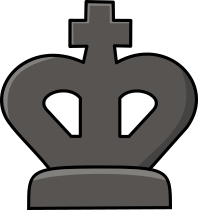
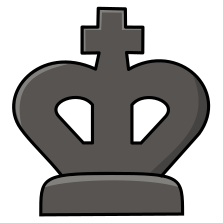
Graphic update
Improved the visual of the squares indicators
Pieces are now at the center of squares
Changed the color of the board
Fixed bug with pawn atatck moves

Changed region(s): [[0.0, 0.0, 1.0, 1.0], [0.5758, 0.4, 0.8182, 0.6571], [0.2121, 0.4, 0.4242, 0.6571]]

diff --git a/pieceslabel.cpp b/pieceslabel.cpp
@@ -36,12 +36,12 @@ PiecesLabel::PiecesLabel(Board *board,QWidget *parent) : QLabel(parent)
     //Setting all the white pieces sizes
     //Pieces are a little bit smaller than squares
 
-    m_whitePawn = m_whitePawn.scaled(m_labelHeight/9,m_labelHeight/9,Qt::KeepAspectRatio, Qt::SmoothTransformation);
-    m_whiteRook = m_whiteRook.scaled(m_labelHeight/9,m_labelHeight/9,Qt::KeepAspectRatio, Qt::SmoothTransformation);
-    m_whiteKnight = m_whiteKnight.scaled(m_labelHeight/9,m_labelHeight/9,Qt::KeepAspectRatio, Qt::SmoothTransformation);
-    m_whiteBishop = m_whiteBishop.scaled(m_labelHeight/9,m_labelHeight/9,Qt::KeepAspectRatio, Qt::SmoothTransformation);
-    m_whiteQueen = m_whiteQueen.scaled(m_labelHeight/9,m_labelHeight/9,Qt::KeepAspectRatio, Qt::SmoothTransformation);
-    m_whiteKing = m_whiteKing.scaled(m_labelHeight/9,m_labelHeight/9,Qt::KeepAspectRatio, Qt::SmoothTransformation);
+    m_whitePawn = m_whitePawn.scaled(m_labelHeight/8,m_labelHeight/8,Qt::KeepAspectRatio, Qt::SmoothTransformation);
+    m_whiteRook = m_whiteRook.scaled(m_labelHeight/8,m_labelHeight/8,Qt::KeepAspectRatio, Qt::SmoothTransformation);
+    m_whiteKnight = m_whiteKnight.scaled(m_labelHeight/8,m_labelHeight/8,Qt::KeepAspectRatio, Qt::SmoothTransformation);
+    m_whiteBishop = m_whiteBishop.scaled(m_labelHeight/8,m_labelHeight/8,Qt::KeepAspectRatio, Qt::SmoothTransformation);
+    m_whiteQueen = m_whiteQueen.scaled(m_labelHeight/8,m_labelHeight/8,Qt::KeepAspectRatio, Qt::SmoothTransformation);
+    m_whiteKing = m_whiteKing.scaled(m_labelHeight/8,m_labelHeight/8,Qt::KeepAspectRatio, Qt::SmoothTransformation);
 
 
     //Setting all the pixmaps for the black pieces
@@ -55,12 +55,12 @@ PiecesLabel::PiecesLabel(Board *board,QWidget *parent) : QLabel(parent)
 
     //Setting all the black pieces sizes
     //Pieces are a little bit smaller than squares
-    m_blackPawn = m_blackPawn.scaled(m_labelHeight/9,m_labelHeight/9,Qt::KeepAspectRatio, Qt::SmoothTransformation);
-    m_blackRook = m_blackRook.scaled(m_labelHeight/9,m_labelHeight/9,Qt::KeepAspectRatio, Qt::SmoothTransformation);
-    m_blackKnight = m_blackKnight.scaled(m_labelHeight/9,m_labelHeight/9,Qt::KeepAspectRatio, Qt::SmoothTransformation);
-    m_blackBishop = m_blackBishop.scaled(m_labelHeight/9,m_labelHeight/9,Qt::KeepAspectRatio, Qt::SmoothTransformation);
-    m_blackQueen = m_blackQueen.scaled(m_labelHeight/9,m_labelHeight/9,Qt::KeepAspectRatio, Qt::SmoothTransformation);
-    m_blackKing = m_blackKing.scaled(m_labelHeight/9,m_labelHeight/9,Qt::KeepAspectRatio, Qt::SmoothTransformation);
+    m_blackPawn = m_blackPawn.scaled(m_labelHeight/8,m_labelHeight/8,Qt::KeepAspectRatio, Qt::SmoothTransformation);
+    m_blackRook = m_blackRook.scaled(m_labelHeight/8,m_labelHeight/8,Qt::KeepAspectRatio, Qt::SmoothTransformation);
+    m_blackKnight = m_blackKnight.scaled(m_labelHeight/8,m_labelHeight/8,Qt::KeepAspectRatio, Qt::SmoothTransformation);
+    m_blackBishop = m_blackBishop.scaled(m_labelHeight/8,m_labelHeight/8,Qt::KeepAspectRatio, Qt::SmoothTransformation);
+    m_blackQueen = m_blackQueen.scaled(m_labelHeight/8,m_labelHeight/8,Qt::KeepAspectRatio, Qt::SmoothTransformation);
+    m_blackKing = m_blackKing.scaled(m_labelHeight/8,m_labelHeight/8,Qt::KeepAspectRatio, Qt::SmoothTransformation);
 
 
     //Setting the board pixmap
@@ -92,6 +92,24 @@ PiecesLabel::PiecesLabel(Board *board,QWidget *parent) : QLabel(parent)
 
 
 
+void endWindow(){
+
+    QWidget endWindow;
+
+    //Getting srceen informations
+     const int width = 50;
+     const int height = 50;
+
+     // Set the size attributes for things in the window
+    endWindow.setFixedSize(width,height);
+    endWindow.show();
+
+
+}
+
+
+
+
 //Set m_mousePoint cooridnates after each click on the board
 void PiecesLabel::mousePressEvent(QMouseEvent *event){
     int position = 0;
@@ -108,14 +126,27 @@ void PiecesLabel::mousePressEvent(QMouseEvent *event){
         //The move has been done
         if (m_boardPieces->movePiece(m_firstSelectedPiece,m_secondSelectedPiece)){
 
+            //Stop the game if there is a draw/checkmate
+            if(m_boardPieces->isCheckMate() || (m_boardPieces->isDraw())){
+                endWindow();
+                std::cout<<"checkmate"<<std::endl;
+
+            }
         }
+
         drawGamePixmap(m_boardPieces->getBoard());
+
     }
 
     //First click on a piece (selecting a piece)
-    if(m_boardPieces->getPiece(position).getPieceType() != NONE){
+    if((m_boardPieces->getPiece(position).getPieceType() != NONE) && (m_selected == false)){
         m_firstSelectedPiece = m_boardPieces->getPiece(position);
         m_selected = true;
+        drawGamePixmap(m_boardPieces->getBoard());
+    }
+
+    //The player didn't clicked on a piece on the first click
+    else if((m_boardPieces->getPiece(position).getPieceType() == NONE) && (m_selected == false)){
         drawGamePixmap(m_boardPieces->getBoard());
     }
 
@@ -146,6 +177,9 @@ int PiecesLabel::clickToPosition(QPoint point){
 
 
 
+
+
+
 QRect PiecesLabel::positionToRectangle(int position){
     int xPos,yPos,x2Pos,y2Pos;
     QPoint leftTopCorner,rightBottomCorner;
@@ -173,12 +207,14 @@ QRect PiecesLabel::positionToRectangle(int position){
 
 
 
+
+
 //Draw a Pixmap of the current game and display it
 void PiecesLabel::drawGamePixmap(std::vector <Piece> board){
 
     //Creating rectangles for the painter
     QRect boardSize(QPoint(0,0),QPoint(m_labelHeight,m_labelHeight));
-    QRect pieceSize(QPoint(-m_labelHeight/64,-m_labelHeight/64),QPoint(m_labelHeight/8,m_labelHeight/8));
+    QRect pieceSize(QPoint(0,0),QPoint(m_labelHeight/8,m_labelHeight/8));
 
 
     //Setting the painter attributes
@@ -193,6 +229,13 @@ void PiecesLabel::drawGamePixmap(std::vector <Piece> board){
     QRect positionRect;
     pieceType pieceType;
     Color pieceColor;
+    Piece king;
+    if(m_boardPieces->getTurn() == BLACK){
+        king = m_boardPieces->findBlackKing();
+    }
+    else if(m_boardPieces->getTurn() == WHITE){
+        king = m_boardPieces->findWhiteKing();
+    }
 
 
     //If a piece is selected show where it can move
@@ -201,15 +244,86 @@ void PiecesLabel::drawGamePixmap(std::vector <Piece> board){
         std::vector <Piece> possibleMoves = m_boardPieces->getPossibleMoves(m_firstSelectedPiece);
         int sizePossibleMoves = possibleMoves.size();
 
-        for(int i=0; i<sizePossibleMoves;i++){
-            positionRect = positionToRectangle(possibleMoves.at(i).getPosition());
-            QBrush blueBrush(Qt::blue);
-            painter->setBrush(blueBrush);
-            painter->drawRect(positionRect);
+        //Draw blue squares where selected piece can move
+         for(int i=0; i<sizePossibleMoves;i++){
+             positionRect = positionToRectangle(possibleMoves.at(i).getPosition());
+
+             //Center of the Gradient
+             int yMid = positionRect.top() + (positionRect.bottom() - positionRect.top() )/2;
+             int xMid = positionRect.left() + (positionRect.right() - positionRect.left() )/2;
+
+             //border of the square
+             int x1= positionRect.left()+2;
+             int y1 = positionRect.top()+2;
+             int x2= positionRect.right()-2;
+             int y2 = positionRect.bottom()-2;
+             QPen pen1(QColor(0, 47, 88),4);
+             painter->setPen(pen1);
+           //  painter->setClipPath(Qt::)
+             QRect border(QPoint(x1,y1),QPoint(x2,y2));
+             painter->drawRect(border);
+
+             //Drawing the gradient
+             QRadialGradient radialGradient(xMid,yMid,150,xMid,yMid);
+             radialGradient.setColorAt(0,QColor(0, 47, 186,100));
+             radialGradient.setColorAt(1,QColor(0, 47, 186,220));
+             QPen pen(Qt::NoPen);
+             painter->setPen(pen);
+             painter->fillRect(positionRect,radialGradient);
 
         }
 
+         //Show what piece is selected in gray
+         positionRect = positionToRectangle(m_firstSelectedPiece.getPosition());
+         //Center of the Gradient
+         int yMid = positionRect.top() + (positionRect.bottom() - positionRect.top() )/2;
+         int xMid = positionRect.left() + (positionRect.right() - positionRect.left() )/2;
 
+         //border of the square
+         int x1= positionRect.left()+2;
+         int y1 = positionRect.top()+2;
+         int x2= positionRect.right()-2;
+         int y2 = positionRect.bottom()-2;
+         QPen pen1(QColor(79, 77, 84),4);
+         painter->setPen(pen1);
+         QRect border(QPoint(x1,y1),QPoint(x2,y2));
+         painter->drawRect(border);
+
+         //Drawing the gradient
+         QRadialGradient radialGradient(xMid,yMid,150,xMid,yMid);
+         radialGradient.setColorAt(0,QColor(79, 77, 84,100));
+         radialGradient.setColorAt(1,QColor(79, 77, 84,220));
+         QPen pen(Qt::NoPen);
+         painter->setPen(pen);
+         painter->fillRect(positionRect,radialGradient);
+
+    }
+
+    //Draw red square under the king if he's check
+    if(m_boardPieces->isCheck(king)){
+         positionRect = positionToRectangle(king.getPosition());
+
+         //Center of the Gradient
+         int yMid = positionRect.top() + (positionRect.bottom() - positionRect.top() )/2;
+         int xMid = positionRect.left() + (positionRect.right() - positionRect.left() )/2;
+
+         //border of the square
+         int x1= positionRect.left()+2;
+         int y1 = positionRect.top()+2;
+         int x2= positionRect.right()-2;
+         int y2 = positionRect.bottom()-2;
+         QPen pen1(QColor(203, 65, 66),4);
+         painter->setPen(pen1);
+         QRect border(QPoint(x1,y1),QPoint(x2,y2));
+         painter->drawRect(border);
+
+         //Drawing the gradient
+         QRadialGradient radialGradient(xMid,yMid,150,xMid,yMid);
+         radialGradient.setColorAt(0,QColor(203, 65, 66,100));
+         radialGradient.setColorAt(1,QColor(203, 65, 66,220));
+         QPen pen(Qt::NoPen);
+         painter->setPen(pen);
+         painter->fillRect(positionRect,radialGradient);
     }
 
 
@@ -293,7 +407,6 @@ void PiecesLabel::drawGamePixmap(std::vector <Piece> board){
 bool PiecesLabel::getSelected(){
     return m_selected;
 }
-
 
 
 

diff --git a/board.cpp b/board.cpp
@@ -365,7 +365,11 @@ bool Board::legalMove(Piece piece, Piece target){
         //Moving a king
         case(KING):
             if((target.getPosition() - 1 == piece.getPosition() ) || (target.getPosition() + 1 == piece.getPosition()) || (target.getPosition() + 8 == piece.getPosition()) || (target.getPosition() - 8 == piece.getPosition()) || (target.getPosition() - 9 == piece.getPosition()) || (target.getPosition() + 9 == piece.getPosition()) || (target.getPosition() - 7 == piece.getPosition()) || (target.getPosition() + 7 == piece.getPosition()) ){
-                return true;
+
+                //Avoid king from crossing the entire baord with just one move
+                if(!(((piece.getPosition()%8 == 0) && (target.getPosition()%8 == 1)) || ((piece.getPosition()%8 == 1) && (target.getPosition()%8 == 0)))){
+                    return true;
+                }
             }
             return false;
 
@@ -387,7 +391,11 @@ bool Board::legalMove(Piece piece, Piece target){
         //Moving a knight
         case(KNIGHT):
             if((target.getPosition() - 17 == piece.getPosition() ) || (target.getPosition() - 15 == piece.getPosition() )|| (target.getPosition() - 10 == piece.getPosition() ) || (target.getPosition() - 6 == piece.getPosition() ) || (target.getPosition() + 17 == piece.getPosition() ) || (target.getPosition() + 15 == piece.getPosition() )|| (target.getPosition() + 10 == piece.getPosition() ) || (target.getPosition() + 6 == piece.getPosition() ) ){
-                return true;
+
+                //Avoid knight from crossing the entire baord with just one move
+                if(!(((piece.getPosition()%8 == 0) && (target.getPosition()%8 == 1)) || ((piece.getPosition()%8 == 1) && (target.getPosition()%8 == 0)) || ((piece.getPosition()%8 == 0) && (target.getPosition()%8 == 2)) || ((piece.getPosition()%8 == 1) && (target.getPosition()%8 == 7)) || ((piece.getPosition()%8 == 2) && (target.getPosition()%8 == 0)) || ((piece.getPosition()%8 == 7) && (target.getPosition()%8 == 1)))){
+                    return true;
+                }
              }
              return false;
 
@@ -424,8 +432,13 @@ bool Board::legalMove(Piece piece, Piece target){
 
                 //Attacking with a white pawn
                 if(( piece.getPosition() == target.getPosition() +7 ) || (piece.getPosition() == target.getPosition() +9)){
-                    if(target.getPieceType() != NONE){
-                        return  true;
+
+                    //Avoid pawn from crossing the entire baord with just one move
+                    if(!(((piece.getPosition()%8 == 0) && (target.getPosition()%8 == 1)) || ((piece.getPosition()%8 == 1) && (target.getPosition()%8 == 0)) )){
+
+                        if(target.getPieceType() != NONE){
+                             return  true;
+                        }
                     }
                 }
 
@@ -446,8 +459,13 @@ bool Board::legalMove(Piece piece, Piece target){
 
                 //Attacking with a black pawn
                 if(( piece.getPosition() == target.getPosition() -7 ) || (piece.getPosition() == target.getPosition() -9)){
-                    if(target.getPieceType() != NONE ){
-                        return true;
+
+                    //Avoid pawn from crossing the entire baord with just one move
+                    if(!(((piece.getPosition()%8 == 0) && (target.getPosition()%8 == 1)) || ((piece.getPosition()%8 == 1) && (target.getPosition()%8 == 0)) )){
+
+                        if(target.getPieceType() != NONE){
+                             return  true;
+                        }
                     }
                 }
 
@@ -1103,5 +1121,12 @@ std::vector<Piece> Board::getPossibleMoves(Piece piece){
     return PossiblesMoves;
 }
 
+
+
+
+
+bool Board::getTurn(){
+    return m_turn;
+}
 
 

diff --git a/gamewindow.cpp b/gamewindow.cpp
@@ -20,10 +20,9 @@ GameWindow::GameWindow(Board *board, QWidget *parent) :
      const int width = ((QApplication::desktop()->width())/6)*5;
      const int height = ((QApplication::desktop()->height())/6)*5;
 
-     // Set size of the window
+     // Set the size attributes for things in the window
     setWidht(width);
     setHeight(height);
-    setFixedSize(getWidth(), getHeight());
 
 
 
@@ -37,11 +36,6 @@ GameWindow::GameWindow(Board *board, QWidget *parent) :
 
 
     this->setLayout(vLayout);
-
-
-
-
-
 
 
 
@@ -78,7 +72,22 @@ void GameWindow::setHeight(int height){
     m_height = height;
 }
 
+
+
 PiecesLabel *GameWindow::getPieceLabel(){
     return m_piecesLabel;
 }
+
+
+
+
+
+
+
+
+
+
+
+
+
 

diff --git a/board.h b/board.h
@@ -11,6 +11,7 @@ public:
     Board();
     Piece getPiece(int position);
     std::vector <Piece> getBoard();
+    bool getTurn();
 
     bool isInTheSameDiagonal(Piece piece, Piece target);
     bool isInTheSameColumn(Piece piece , Piece target);

diff --git a/gamewindow.h b/gamewindow.h
@@ -15,6 +15,7 @@ class GameWindow : public QWidget
     void setHeight(int height);
     void setWidht(int width);
     PiecesLabel* getPieceLabel();
+    void showCheckMate();
 
 private:
     int m_height;

diff --git a/main.cpp b/main.cpp
@@ -107,9 +107,6 @@ int main(int argc, char *argv[])
 
     GameWindow gameWindow(board);
 
-
-
-
     gameWindow.show();
 
 
